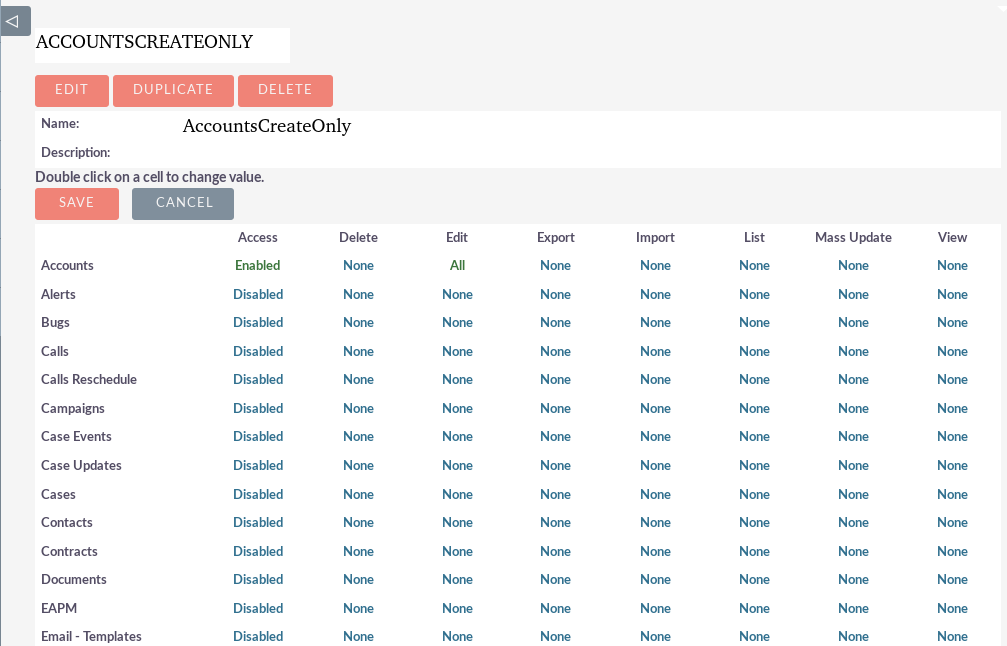
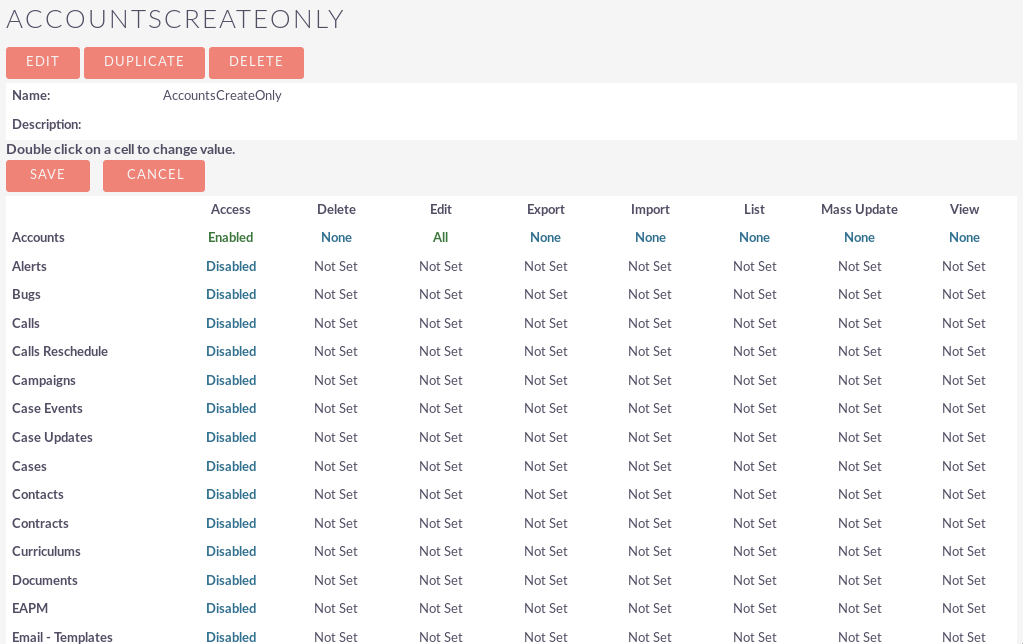
create_restricted_suitecrm_user.md: Updated

diff --git a/docs/create_restricted_suitecrm_user.md b/docs/create_restricted_suitecrm_user.md
@@ -2,17 +2,35 @@ How to configure the user to only have permissions to create objects from the ac
 
 As an admin, create the user that will have the accounts limitation.
 
+* Admin
+* User Management
+* Create new user
+
+Name the user as: *apiclient1*. Give it a random password. We do not need it later.
+
 ![Point 2 1](../images/Point_2_1.png)
 
-As an admin, create the role that will have the permitions.
+As an admin, create the role that will have the permissions.
+
+* Admin
+* Role Management
+* New Role
+
+Name the role as: *AccountsCreateOnly*.
 
 ![Point 2 2](../images/Point_2_2.png)
 
-In the next screens after the creation of the role, you will have to toggle every option to be "Disabled" or "None", except for the Access option for Accounts, which should be "Enabled" module and the Edit option in the same module, which should be "All".
+In the next screen after the creation of the role, you will have to toggle every module Access to be "Disabled" except for Accounts module.
+
+Accounts modules needs:
+* Access: Enabled
+* Edit: All
+* Any other role: None
 
 ![Point 2 3](../images/Point_2_3.png)
 
 Assign the role to our newly created user.
+You just need to open the user and add the new role to its roles subpanel.
 
 ![Point 2 4](../images/Point_2_4.png)
 
